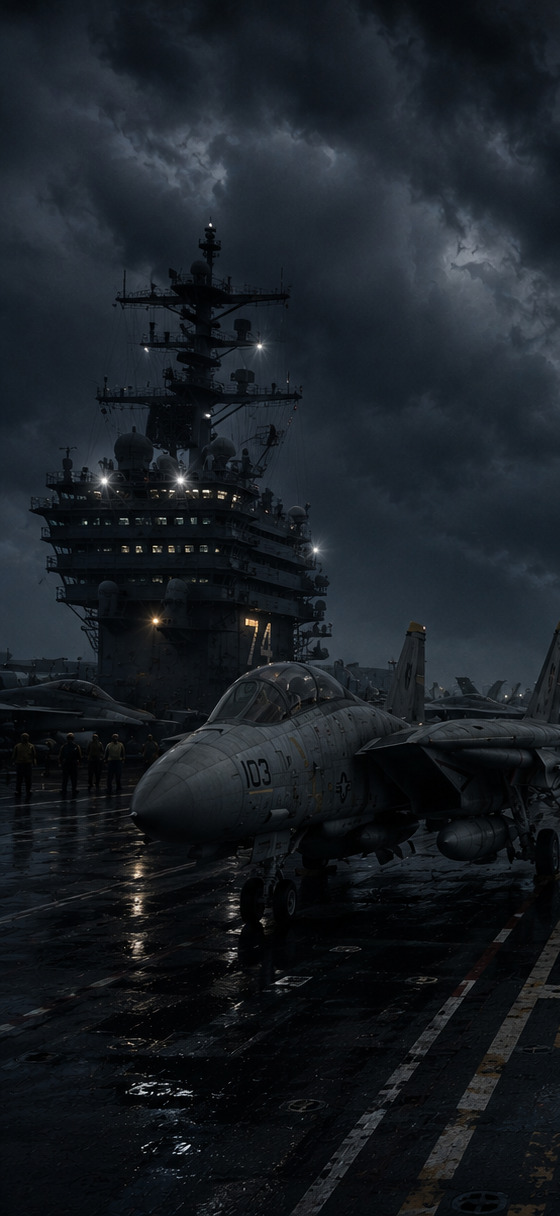
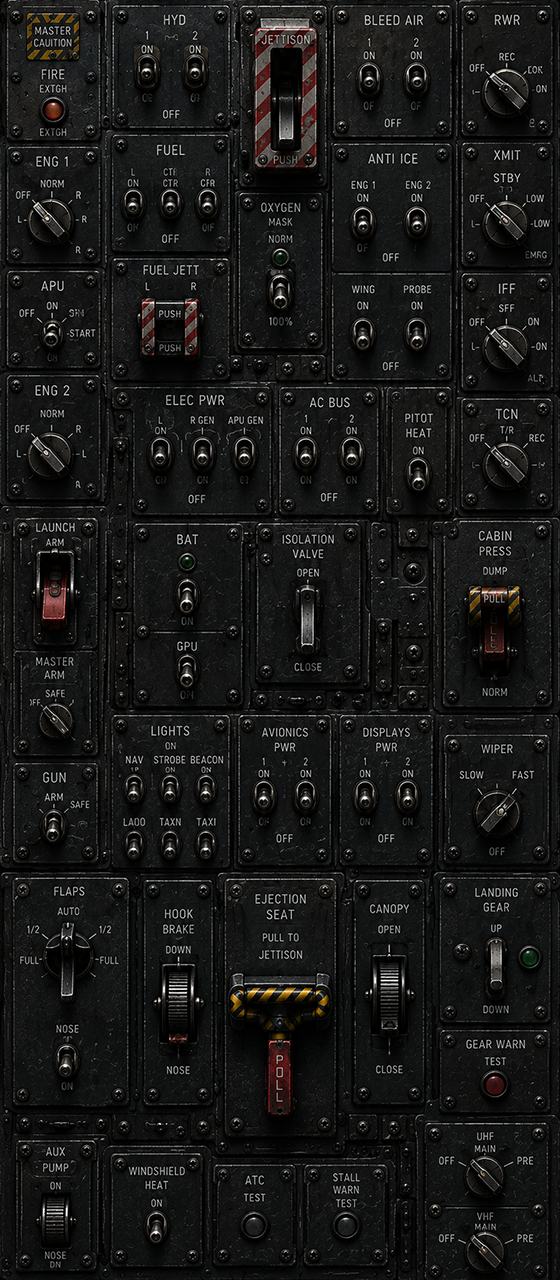
ui updated

diff --git a/aircraft_settings.py b/aircraft_settings.py
@@ -665,7 +665,7 @@ class AircraftSettingsDialog(QDialog):
         # Başlık çubuğu
         tb = QWidget()
         tb.setFixedHeight(40)
-        tb.setStyleSheet(f"background: {TB};")
+        tb.setStyleSheet("background: transparent;")
         tb_lay = QHBoxLayout(tb)
         tb_lay.setContentsMargins(16, 0, 8, 0)
 
@@ -734,7 +734,7 @@ class AircraftSettingsDialog(QDialog):
         # ── Başlık çubuğu ─────────────────────────────────────────────────
         tb = QWidget()
         tb.setFixedHeight(40)
-        tb.setStyleSheet(f"background: {TB};")
+        tb.setStyleSheet("background: transparent;")
         tb_lay = QHBoxLayout(tb)
         tb_lay.setContentsMargins(16, 0, 8, 0)
 
@@ -818,7 +818,7 @@ class AircraftSettingsDialog(QDialog):
 
         # ── Alt butonlar ───────────────────────────────────────────────────
         bottom = QWidget()
-        bottom.setStyleSheet(f"background: {TB};")
+        bottom.setStyleSheet("background: transparent;")
         bot_lay = QHBoxLayout(bottom)
         bot_lay.setContentsMargins(16, 10, 16, 10)
         bot_lay.setSpacing(8)